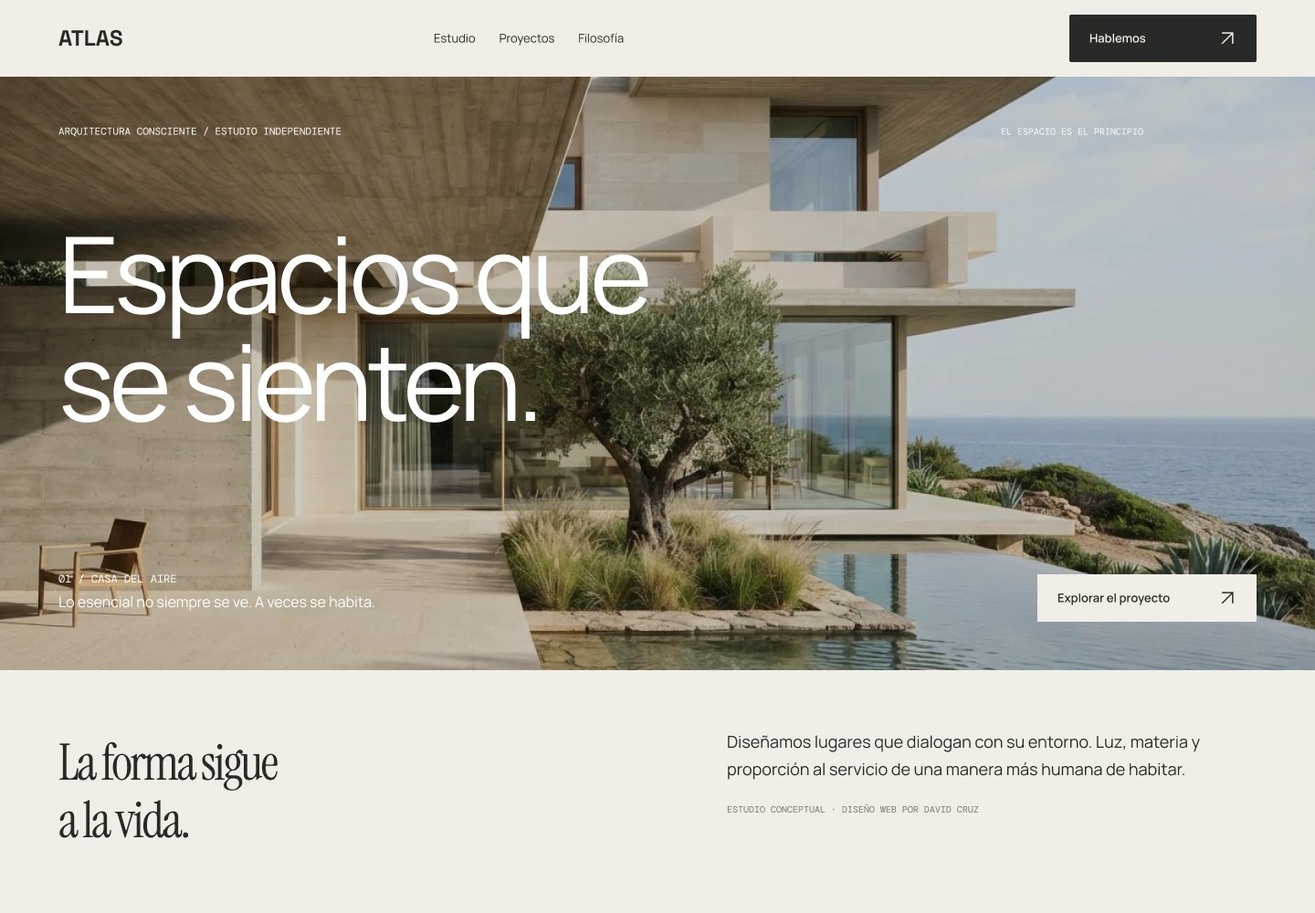
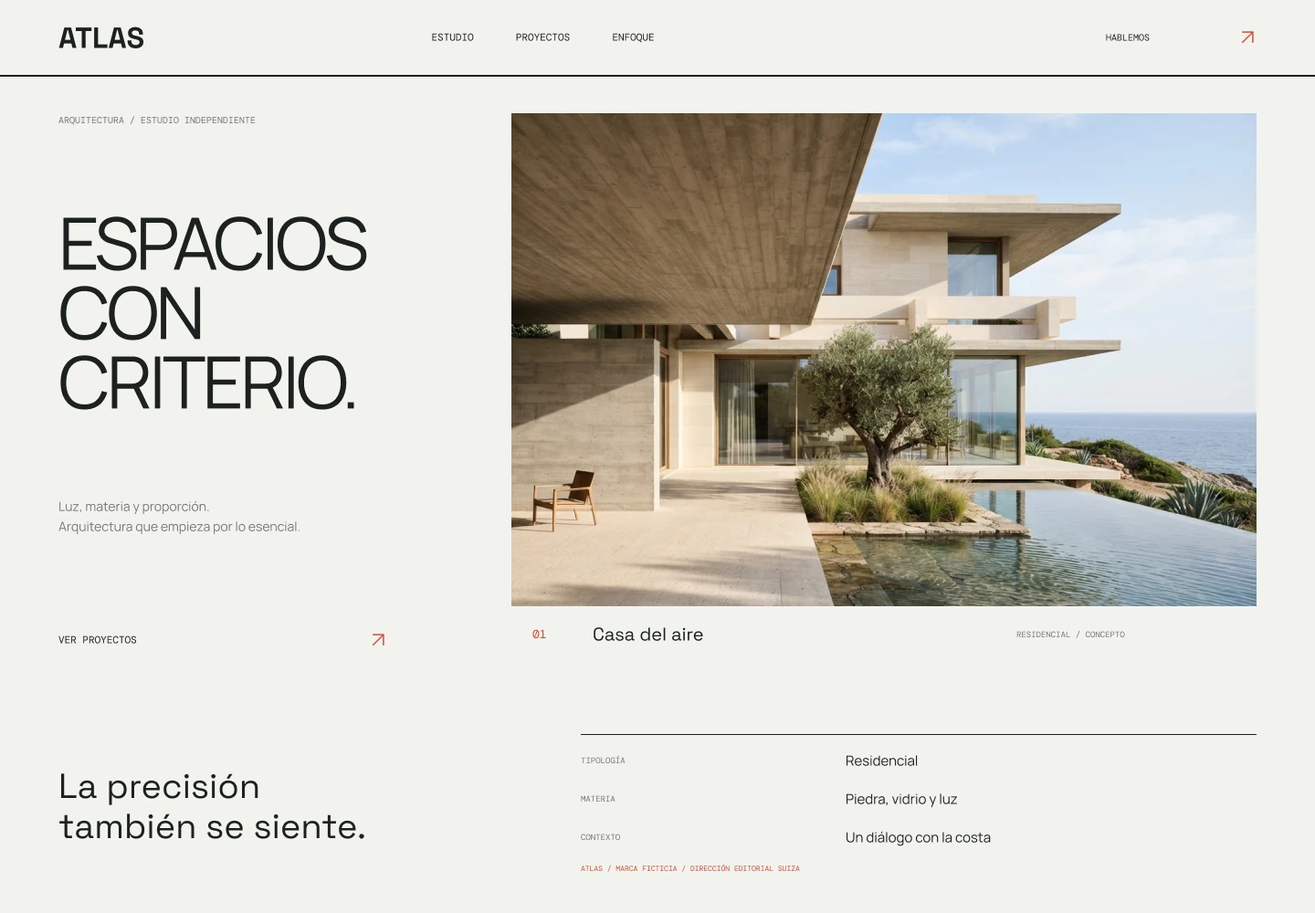
feat: update project details and styles in conceptProjects.js and DesignerPortfolio.jsx

diff --git a/artifacts/figma/restyle-concepts.js b/artifacts/figma/restyle-concepts.js
@@ -1,0 +1,218 @@
+// Run after the shared helpers from compose-concepts.js, with STYLE_INDEX = 0..3.
+await Promise.all([
+  ["Cormorant Garamond", "Regular"], ["Cormorant Garamond", "Italic"],
+  ["Inter", "Regular"], ["Inter", "Medium"], ["Inter", "Semi Bold"], ["Inter", "Bold"],
+].map(([family, style]) => figma.loadFontAsync({ family, style })));
+
+const brands = ["ATLAS", "BRUMA", "SENDA", "ORBIT"];
+const directions = ["Editorial suizo", "Neobrutalismo cálido", "Lujo orgánico", "Producto corporativo"];
+const brand = brands[STYLE_INDEX];
+const draftName = brand + " / " + directions[STYLE_INDEX];
+if (page.children.some(node => node.name === draftName + " / Desktop")) throw new Error("A draft already exists; inspect before retrying.");
+const previousDesktop = await figma.getNodeByIdAsync("1:2");
+const previousMobile = await figma.getNodeByIdAsync("1:3");
+const startX = Math.max(...page.children.map(node => node.x + node.width)) + 240;
+const desktop = box(page, draftName + " / Desktop", 1440, 1000);
+desktop.x = startX; desktop.y = 200; desktop.clipsContent = true;
+const mobile = box(page, draftName + " / Mobile", 390, 844);
+mobile.x = startX + 1480; mobile.y = 200; mobile.clipsContent = true;
+
+function outline(node, color, weight = 1) { node.strokes = fill(color); node.strokeWeight = weight; return node; }
+function centerText(parent, value, size, width, color, family, style = "Regular", line = 1.1) {
+  const node = text(parent, value, size, width, color, family, style, line);
+  node.textAlignHorizontal = "CENTER";
+  return node;
+}
+function blockShadow(node, offset, color) {
+  node.effects = [{ type: "DROP_SHADOW", color: { ...rgb(color), a: 1 }, offset: { x: offset, y: offset }, radius: 0, spread: 0, visible: true, blendMode: "NORMAL" }];
+}
+function smallAction(parent, value, width, height, background, ink, radius = 0, family = "Manrope") {
+  const node = row(parent, "Action / " + value, width, height, [0, 18], background);
+  node.cornerRadius = radius;
+  text(node, value, 12, width - 68, ink, family, family === "Inter" ? "Semi Bold" : "SemiBold");
+  icon(node, ink);
+  return node;
+}
+function stamp(parent, width, height, background, ink, first, second) {
+  const node = box(parent, "Brand stamp", width, height, background, "VERTICAL", 7, 12);
+  node.cornerRadius = 999; node.primaryAxisAlignItems = "CENTER"; node.counterAxisAlignItems = "CENTER";
+  centerText(node, first, 10, width - 24, ink, "DM Mono");
+  centerText(node, second, 17, width - 24, ink, "Space Grotesk", "Bold");
+  return node;
+}
+
+function atlasSwiss() {
+  const paper = "#F2F3EF", ink = "#1C211F", muted = "#727973", accent = "#CE4D37";
+  const hash = "13064f5ed14501a8743353296a9f58b9b9229a38";
+  desktop.fills = mobile.fills = fill(paper);
+  const nav = row(desktop, "Swiss navigation", 1440, 82, [0, 64], paper);
+  text(nav, "ATLAS", 32, 230, ink, "Space Grotesk", "Bold");
+  mono(nav, "ESTUDIO       PROYECTOS       ENFOQUE", 560, ink, 11);
+  const navLink = row(nav, "Contact link", 165, 40); mono(navLink, "HABLEMOS", 120, ink, 10); icon(navLink, accent);
+  box(desktop, "Structural rule", 1440, 2, ink);
+  const hero = row(desktop, "Asymmetric editorial grid", 1440, 682, [40, 64], paper);
+  const copy = box(hero, "Swiss typography column", 430, 602, null, "VERTICAL"); copy.primaryAxisAlignItems = "SPACE_BETWEEN";
+  mono(copy, "ARQUITECTURA / ESTUDIO INDEPENDIENTE", 430, muted, 10);
+  text(copy, "ESPACIOS\nCON\nCRITERIO.", 79, 430, ink, "Manrope", "Regular", .96);
+  text(copy, "Luz, materia y proporción.\nArquitectura que empieza por lo esencial.", 14, 390, muted, "Manrope", "Regular", 1.6);
+  const link = row(copy, "Studio project link", 360, 50); mono(link, "VER PROYECTOS", 290, ink, 11); icon(link, accent);
+  const image = photo(hero, "Architectural project / Precise image grid", 816, 602, hash);
+  const caption = row(image, "Architecture metadata", 816, 62, [0, 23], paper); absolute(caption, 0, 540);
+  mono(caption, "01", 42, accent, 13); text(caption, "Casa del aire", 20, 440, ink, "Space Grotesk"); mono(caption, "RESIDENCIAL / CONCEPTO", 240, muted, 9);
+  const end = row(desktop, "Swiss project information grid", 1440, 234, [36, 64]);
+  text(end, "La precisión\ntambién se siente.", 38, 470, ink, "Space Grotesk", "Regular", 1.15);
+  const info = box(end, "Material and context", 740, 158, null, "VERTICAL", 14);
+  rule(info, 740, ink);
+  [["TIPOLOGÍA", "Residencial"], ["MATERIA", "Piedra, vidrio y luz"], ["CONTEXTO", "Un diálogo con la costa"]].forEach(([label, value]) => { const line = row(info, label, 740, 28); mono(line, label, 230, muted, 9); text(line, value, 15, 450, ink); });
+  mono(info, "ATLAS / MARCA FICTICIA / DIRECCIÓN EDITORIAL SUIZA", 740, accent, 8);
+
+  const mn = row(mobile, "Swiss mobile navigation", 390, 68, [0, 24]); text(mn, "ATLAS", 28, 220, ink, "Space Grotesk", "Bold"); mono(mn, "MENÚ +", 70, ink, 9);
+  box(mobile, "Mobile structural rule", 390, 2, ink);
+  const mc = box(mobile, "Swiss mobile typography", 390, 266, paper, "VERTICAL", 17, 24);
+  mono(mc, "ARQUITECTURA / ESTUDIO INDEPENDIENTE", 342, muted, 8);
+  text(mc, "ESPACIOS\nCON CRITERIO.", 53, 342, ink, "Manrope", "Regular", .98);
+  text(mc, "Luz, materia y proporción.\nLo esencial, en cada proyecto.", 12, 342, muted, "Manrope", "Regular", 1.6);
+  const mp = photo(mobile, "Swiss mobile architecture", 390, 330, hash);
+  const cap = row(mp, "Mobile project caption", 390, 52, [0, 24], paper); absolute(cap, 0, 278); mono(cap, "01 / CASA DEL AIRE", 300, ink, 10); icon(cap, accent);
+  const me = box(mobile, "Swiss mobile manifesto", 390, 178, paper, "VERTICAL", 12, 24);
+  text(me, "La precisión también\nse siente.", 26, 342, ink, "Space Grotesk", "Regular", 1.05);
+  const ml = row(me, "Mobile project link", 342, 38); mono(ml, "VER PROYECTOS", 280, ink, 10); icon(ml, accent);
+  mono(me, "CONCEPTO FICTICIO / EDITORIAL SUIZO", 342, muted, 7);
+}
+
+function brumaBold() {
+  const paper = "#FFF4D7", yellow = "#FFD256", ink = "#272219", red = "#B9392A", pink = "#F4A4B8";
+  const hash = "a8d25860315f8faab885d634129b77d2ac3e2631";
+  desktop.fills = mobile.fills = fill(paper);
+  const nav = row(desktop, "Bold coffee navigation", 1440, 84, [0, 64], paper);
+  text(nav, "bruma.", 44, 240, ink, "Space Grotesk", "Bold"); mono(nav, "NUESTRO CAFÉ      EL ORIGEN      EL CLUB", 580, ink, 11);
+  outline(smallAction(nav, "Tu bolsa (0)", 190, 48, paper, ink), ink, 2);
+  box(desktop, "Bold navigation rule", 1440, 2, ink);
+  const hero = row(desktop, "Neobrutalist commerce hero", 1440, 668, [40, 64], yellow);
+  const copy = box(hero, "Bold retail typography", 610, 588, null, "VERTICAL", 23, [4, 0]);
+  mono(copy, "BUEN CAFÉ. CERO COMPLICACIONES.", 600, red, 11);
+  text(copy, "CAFÉ\nSIN FILTRO.", 108, 610, ink, "Space Grotesk", "Bold", .97);
+  text(copy, "Del origen a tu taza, con todo el carácter.\nTu ritual de siempre. Con otra actitud.", 17, 570, ink, "Manrope", "Regular", 1.6);
+  const cta = smallAction(copy, "Encuentra tu café", 270, 58, red, paper); outline(cta, ink, 2); blockShadow(cta, 5, ink);
+  const tags = row(copy, "Coffee flavour tags", 560, 42);
+  ["ORIGEN CONSCIENTE", "TU RITUAL", "TOSTADO FRESCO"].forEach(label => { const tag = box(tags, label, 172, 33, paper, "VERTICAL", 0, [8, 10]); outline(tag, ink, 1.5); mono(tag, label, 150, ink, 8); });
+  const wrapper = box(hero, "Coffee image and brand sticker", 610, 588);
+  const image = photo(wrapper, "Coffee / Graphic product photograph", 590, 560, hash); image.cornerRadius = 8; outline(image, ink, 2); blockShadow(image, 8, ink);
+  const badge = stamp(wrapper, 118, 118, pink, ink, "100%", "BUENA VIBRA"); outline(badge, ink, 2); absolute(badge, 475, -8); badge.rotation = -9;
+  const strip = row(desktop, "Bold brand ticker", 1440, 70, [0, 64], ink);
+  text(strip, "DE LA TIERRA A TU TAZA.", 24, 440, yellow, "Space Grotesk", "Bold"); icon(strip, yellow, true); text(strip, "BUEN CAFÉ, SIN VUELTAS.", 24, 480, yellow, "Space Grotesk", "Bold"); icon(strip, yellow, true);
+  const end = row(desktop, "Coffee brand pillars", 1440, 176, [28, 64], paper);
+  [["01", "ORIGEN CONSCIENTE", "Detrás de cada taza hay una historia."], ["02", "FRESCO, SIEMPRE", "Un ritual simple, lleno de carácter."], ["03", "TU PRIMERA PAUSA", "Lo bueno también puede ser cotidiano."]].forEach(([index, label, desc]) => { const card = box(end, label, 402, 120, paper, "VERTICAL", 12, 17); outline(card, ink, 2); const head = row(card, label + " heading", 368, 22); mono(head, index, 40, red, 10); text(head, label, 16, 300, ink, "Space Grotesk", "Bold"); text(card, desc, 12, 365, ink, "Manrope", "Regular", 1.5); });
+
+  const mn = row(mobile, "Bold mobile coffee navigation", 390, 68, [0, 24], paper); text(mn, "bruma.", 34, 240, ink, "Space Grotesk", "Bold"); mono(mn, "BOLSA (0)", 80, ink, 9);
+  box(mobile, "Mobile heavy rule", 390, 2, ink);
+  const mc = box(mobile, "Mobile bold coffee story", 390, 340, yellow, "VERTICAL", 18, 24);
+  mono(mc, "BUEN CAFÉ. CERO COMPLICACIONES.", 342, red, 8);
+  text(mc, "CAFÉ\nSIN FILTRO.", 63, 342, ink, "Space Grotesk", "Bold", .97);
+  text(mc, "Tu ritual de siempre. Con otra actitud.", 13, 342, ink);
+  const ctaM = smallAction(mc, "Encuentra tu café", 270, 52, red, paper); outline(ctaM, ink, 2); blockShadow(ctaM, 4, ink);
+  const mp = photo(mobile, "Mobile bold coffee photo", 390, 300, hash); outline(mp, ink, 2);
+  const sticker = stamp(mp, 92, 92, pink, ink, "100%", "ACTITUD"); sticker.children[1].fontSize = 13; outline(sticker, ink, 2); absolute(sticker, 278, 18); sticker.rotation = -9;
+  const band = row(mobile, "Mobile brand ticker", 390, 54, [0, 24], ink); text(band, "DE LA TIERRA A TU TAZA.", 18, 300, yellow, "Space Grotesk", "Bold"); icon(band, yellow, true);
+  const me = box(mobile, "Mobile brand statement", 390, 80, paper, "VERTICAL", 0, [16, 24]); text(me, "Pequeños rituales.\nGrandes mañanas.", 21, 342, ink, "Space Grotesk", "Bold", 1.1);
+}
+
+function sendaLuxury() {
+  const paper = "#F5F3EC", ink = "#314B42", muted = "#7A8277", gold = "#9F8256";
+  const hash = "d337a9c8a81636d4545f1f324f6596a7a71d6a56";
+  desktop.fills = mobile.fills = fill(paper);
+  const nav = row(desktop, "Quiet luxury navigation", 1440, 92, [0, 64], paper);
+  mono(nav, "EL REFUGIO       EXPERIENCIAS", 450, muted, 9);
+  centerText(nav, "senda", 49, 260, ink, "Cormorant Garamond");
+  const reserve = outline(smallAction(nav, "Reservar", 180, 44, paper, gold, 25), gold); reserve.name = "Discreet reservation action";
+  const intro = box(desktop, "Luxury centered editorial opening", 1440, 334, paper, "VERTICAL", 12, [18, 64]); intro.counterAxisAlignItems = "CENTER"; intro.primaryAxisAlignItems = "CENTER";
+  centerText(intro, "UN REFUGIO, A OTRO RITMO", 10, 1000, gold, "DM Mono");
+  centerText(intro, "El lujo de", 100, 1200, ink, "Cormorant Garamond", "Regular", .94);
+  centerText(intro, "bajar el ritmo.", 104, 1200, ink, "Cormorant Garamond", "Italic", .94);
+  centerText(intro, "Naturaleza, silencio y tiempo para volver a lo esencial.", 14, 1100, muted, "Manrope", "Regular", 1.5);
+  const stage = box(desktop, "Organic landscape stage", 1440, 414, paper, "VERTICAL", 0, [0, 64]);
+  const image = photo(stage, "Arched landscape photograph", 1312, 390, hash); image.topLeftRadius = image.topRightRadius = 328; image.bottomLeftRadius = image.bottomRightRadius = 4;
+  const caption = box(image, "Quiet landscape caption", 290, 52, paper, "VERTICAL", 0, [17, 24]); caption.cornerRadius = 28; absolute(caption, 48, 304); mono(caption, "NATURALEZA, SIN PRISA.", 245, ink, 9);
+  const end = row(desktop, "Luxury experience details", 1440, 160, [28, 64], paper);
+  [["La estancia", "Bosque, agua y silencio."], ["El tiempo", "El que necesites."], ["La experiencia", "Volver a lo esencial."]].forEach(([title, desc]) => { const block = box(end, title, 390, 100, null, "VERTICAL", 15); rule(block, 390, "#D5CCB8"); text(block, title, 33, 390, ink, "Cormorant Garamond"); text(block, desc, 12, 390, muted); });
+
+  const mn = row(mobile, "Quiet luxury mobile navigation", 390, 72, [0, 24], paper); text(mn, "senda", 40, 240, ink, "Cormorant Garamond"); mono(mn, "MENÚ +", 75, gold, 9);
+  const mc = box(mobile, "Luxury mobile typography", 390, 304, paper, "VERTICAL", 16, 24); mc.counterAxisAlignItems = "CENTER"; mc.primaryAxisAlignItems = "CENTER";
+  centerText(mc, "UN REFUGIO, A OTRO RITMO", 8, 342, gold, "DM Mono");
+  centerText(mc, "El lujo de", 67, 342, ink, "Cormorant Garamond", "Regular", .96);
+  centerText(mc, "bajar el ritmo.", 61, 342, ink, "Cormorant Garamond", "Italic", .96);
+  centerText(mc, "Tiempo para volver a lo esencial.", 12, 342, muted, "Manrope");
+  const ms = box(mobile, "Mobile organic landscape", 390, 300, paper, "VERTICAL", 0, [0, 24]);
+  const mp = photo(ms, "Mobile arched landscape", 342, 276, hash); mp.topLeftRadius = mp.topRightRadius = 171; mp.bottomLeftRadius = mp.bottomRightRadius = 3;
+  const me = box(mobile, "Mobile quiet luxury close", 390, 168, paper, "VERTICAL", 14, 24);
+  text(me, "Bosque, agua y silencio.", 30, 342, ink, "Cormorant Garamond");
+  text(me, "Un lugar para bajar el ruido\ny escuchar lo que importa.", 12, 342, muted, "Manrope", "Regular", 1.6);
+  mono(me, "CONCEPTO FICTICIO / LUJO ORGÁNICO", 342, gold, 7);
+}
+
+function orbitApp(parent, width, height, small = false) {
+  const ink = "#17304E", blue = "#2C60D9", muted = "#7B8BA1", border = "#DEE6F2";
+  const app = outline(box(parent, "Corporate product / Editable interface", width, height, "#FFFFFF", "HORIZONTAL"), border); app.cornerRadius = 12; app.clipsContent = true;
+  const sidebarWidth = small ? 0 : 208;
+  if (!small) {
+    const side = box(app, "Enterprise workspace navigation", 208, height, "#F2F6FC", "VERTICAL", 22, [25, 20]);
+    text(side, "Equipo Norte", 16, 168, ink, "Inter", "Semi Bold"); mono(side, "WORKSPACE DEMO", 168, muted, 8);
+    ["Resumen", "Proyectos", "Tareas", "Agenda", "Mi equipo"].forEach((label, i) => { const item = row(side, "Workspace / " + label, 168, 34, [0, 10], i === 0 ? "#E2EBFF" : "#F2F6FC"); item.cornerRadius = 5; circle(item, 5, i === 0 ? blue : "#AFBED1"); text(item, label, 11, 138, i === 0 ? blue : muted, "Inter", i === 0 ? "Semi Bold" : "Regular"); });
+  }
+  const pad = small ? 16 : 24, inner = width - sidebarWidth - 2 * pad;
+  const content = box(app, "Team overview", width - sidebarWidth, height, "#FFFFFF", "VERTICAL", small ? 13 : 18, pad);
+  const header = row(content, "Overview header", inner, small ? 36 : 42);
+  const heading = box(header, "Overview title", inner - (small ? 28 : 200), small ? 36 : 42, null, "VERTICAL", 6);
+  text(heading, "Resumen del equipo", small ? 15 : 21, heading.width, ink, "Inter", "Semi Bold");
+  text(heading, "Tu trabajo, con una visión clara.", small ? 8 : 10, heading.width, muted, "Inter");
+  if (!small) { const control = outline(row(header, "Weekly date control", 160, 34, [0, 14], "#FFFFFF"), border); control.cornerRadius = 6; text(control, "Esta semana", 11, 130, muted, "Inter"); } else circle(header, 24, "#DFE9FC");
+  const statCount = small ? 3 : 4;
+  const metrics = row(content, "Team metrics", inner, small ? 62 : 84);
+  [["Proyectos", "12", blue], ["En curso", "08", "#C38C35"], ["Completados", "24", "#328B74"], ["Prioridades", "06", "#7A66B4"]].slice(0, statCount).forEach(([label, value, color]) => { const card = outline(box(metrics, label, (inner - (statCount - 1) * 12) / statCount, small ? 62 : 84, "#FFFFFF", "VERTICAL", 9, small ? 9 : 14), border); card.cornerRadius = 7; text(card, label, small ? 7 : 10, card.width - 20, muted, "Inter"); const values = row(card, label + " value", card.width - (small ? 18 : 28), small ? 22 : 30); text(values, value, small ? 19 : 27, values.width - 15, ink, "Inter", "Semi Bold"); circle(values, 5, color); });
+  const chartWidth = small ? inner : Math.round(inner * .6) - 10;
+  const lower = small ? content : row(content, "Activity and priorities", inner, 208);
+  const chart = outline(box(lower, "Weekly activity module", chartWidth, small ? 132 : 208, "#FFFFFF", "VERTICAL", small ? 10 : 16, 14), border); chart.cornerRadius = 8;
+  text(chart, "Actividad semanal", small ? 10 : 13, chartWidth - 28, ink, "Inter", "Semi Bold");
+  const bars = row(chart, "Weekly activity chart", chartWidth - 28, small ? 60 : 109); bars.counterAxisAlignItems = "MAX";
+  [42, 64, 51, 90, 72, 57, 35].forEach((value, index) => { const col = box(bars, "Activity column " + index, (chartWidth - 65) / 7, small ? value * .65 : value, index === 3 ? blue : "#B5CDF8"); col.cornerRadius = 3; });
+  const days = row(chart, "Chart weekday labels", chartWidth - 28, 12); ["L", "M", "M", "J", "V", "S", "D"].forEach(day => centerText(days, day, small ? 6 : 8, (chartWidth - 65) / 7, muted, "Inter"));
+  const tasksWidth = small ? inner : inner - chartWidth - 20;
+  const list = small ? box(content, "Next priority", inner, 72, null, "VERTICAL", 10) : outline(box(lower, "Team priorities", tasksWidth, 208, "#FFFFFF", "VERTICAL", 18, 16), border);
+  list.cornerRadius = 8;
+  text(list, "Próximas entregas", small ? 10 : 13, tasksWidth - (small ? 0 : 32), ink, "Inter", "Semi Bold");
+  [["Identidad visual / Norte", "En curso"], ["Web / Colección Otoño", "Revisión"], ["Planificación creativa", "Pendiente"]].slice(0, small ? 2 : 3).forEach(([label, status], index) => { const item = row(list, label, tasksWidth - (small ? 0 : 32), small ? 17 : 31); circle(item, 5, [blue, "#328B74", "#C38C35"][index]); text(item, label, small ? 8 : 10, small ? tasksWidth - 17 : tasksWidth - 135, muted, "Inter"); if (!small) { const pill = box(item, status, 74, 23, ["#E8F0FF", "#E6F2ED", "#FAF0DF"][index], "VERTICAL", 0, [6, 6]); pill.cornerRadius = 5; centerText(pill, status, 8, 62, [blue, "#328B74", "#A97D35"][index], "Inter"); } });
+  return app;
+}
+
+function orbitCorporate() {
+  const paper = "#F8FBFF", white = "#FFFFFF", ink = "#17304E", blue = "#2C60D9", muted = "#718299";
+  desktop.fills = mobile.fills = fill(paper);
+  const nav = row(desktop, "Corporate product navigation", 1440, 84, [0, 64], white); text(nav, "orbit", 31, 250, blue, "Inter", "Bold"); text(nav, "Producto          Soluciones          Recursos          Planes", 13, 650, ink, "Inter"); smallAction(nav, "Empieza gratis", 190, 44, blue, white, 7, "Inter");
+  const hero = box(desktop, "Corporate centered value proposition", 1440, 292, paper, "VERTICAL", 14, [20, 64]); hero.counterAxisAlignItems = "CENTER"; hero.primaryAxisAlignItems = "CENTER";
+  const eyebrow = box(hero, "Product category badge", 290, 28, "#E7EEFC", "VERTICAL", 0, [7, 12]); eyebrow.cornerRadius = 18; centerText(eyebrow, "EL ESPACIO DE TU EQUIPO", 9, 266, blue, "Inter", "Medium");
+  centerText(hero, "Todo tu trabajo.", 65, 1200, ink, "Inter", "Bold", 1.02);
+  centerText(hero, "En la misma órbita.", 65, 1200, blue, "Inter", "Bold", 1.02);
+  centerText(hero, "Proyectos, conversaciones y prioridades. Una visión clara para avanzar juntos.", 15, 1200, muted, "Inter", "Regular", 1.5);
+  const appStage = box(desktop, "Enterprise product preview", 1440, 474, paper, "VERTICAL", 0, [0, 64]); orbitApp(appStage, 1312, 450);
+  const end = row(desktop, "Product capabilities", 1440, 150, [25, 64], paper);
+  [["01", "Una sola fuente de claridad", "Conecta proyectos, personas y prioridades."], ["02", "Diseñado para colaborar", "El contexto correcto, en el momento correcto."], ["03", "Visibilidad para avanzar", "Cada entrega, con un siguiente paso claro."]].forEach(([index, title, desc]) => { const block = box(end, title, 395, 100, null, "VERTICAL", 12); mono(block, index, 390, blue, 9); text(block, title, 17, 390, ink, "Inter", "Semi Bold"); text(block, desc, 12, 390, muted, "Inter", "Regular", 1.5); });
+
+  const mn = row(mobile, "Corporate mobile navigation", 390, 68, [0, 24], white); text(mn, "orbit", 29, 180, blue, "Inter", "Bold"); smallAction(mn, "Entrar", 130, 38, blue, white, 7, "Inter");
+  const mc = box(mobile, "Mobile corporate product story", 390, 238, paper, "VERTICAL", 15, 24); mc.counterAxisAlignItems = "CENTER";
+  centerText(mc, "EL ESPACIO DE TU EQUIPO", 8, 342, blue, "Inter", "Medium");
+  centerText(mc, "Tu equipo.\nEn órbita.", 44, 342, ink, "Inter", "Bold", 1.04);
+  centerText(mc, "Todo tu trabajo conectado.\nUna visión clara para avanzar.", 12, 342, muted, "Inter", "Regular", 1.5);
+  const app = box(mobile, "Mobile corporate product preview", 390, 426, paper, "VERTICAL", 0, [0, 24]); orbitApp(app, 342, 400, true);
+  const me = box(mobile, "Mobile product capabilities", 390, 112, paper, "VERTICAL", 12, 24); text(me, "Un equipo. Una visión clara.", 18, 342, ink, "Inter", "Semi Bold"); mono(me, "CONCEPTO FICTICIO / PRODUCTO DIGITAL", 342, blue, 7);
+}
+
+[atlasSwiss, brumaBold, sendaLuxury, orbitCorporate][STYLE_INDEX]();
+return {
+  brand,
+  direction: directions[STYLE_INDEX],
+  createdNodeIds: ids,
+  desktopId: desktop.id,
+  mobileId: mobile.id,
+  previousRootIds: [previousDesktop.id, previousMobile.id],
+  screenSizes: [[desktop.width, desktop.height], [mobile.width, mobile.height]],
+};

diff --git a/src/assets/data/conceptProjects.js b/src/assets/data/conceptProjects.js
@@ -8,53 +8,58 @@ const concepts = [
     id: 7,
     image: atlas,
     figmaFile: "https://www.figma.com/design/MUvm7cs6NlRypLTtZaYTI3",
-    node: "1-2",
+    node: "6-2",
     title: { es: "ATLAS — Arquitectura contemporánea", en: "ATLAS — Contemporary architecture" },
+    style: { es: "Editorial suizo", en: "Swiss editorial" },
     description: {
-      es: "Concepto editorial para un estudio de arquitectura. Fotografía inmersiva, tipografía monumental y una composición centrada en los espacios.",
-      en: "An editorial concept for an architecture studio. Immersive photography, monumental typography and a composition built around spaces.",
+      es: "Estudio de arquitectura ficticio. Retícula asimétrica, tipografía sans serif y fotografía sin superposiciones para dar protagonismo a los espacios.",
+      en: "A fictional architecture studio. An asymmetric grid, sans serif typography and unobstructed photography keep the focus on the spaces.",
     },
   },
   {
     id: 8,
     image: bruma,
     figmaFile: "https://www.figma.com/design/SH4e4GFIGbvme1KdAVaSkp",
-    node: "1-2",
+    node: "5-2",
     title: { es: "BRUMA — Café de especialidad", en: "BRUMA — Specialty coffee" },
+    style: { es: "Neobrutalismo cálido", en: "Warm neobrutalism" },
     description: {
-      es: "Marca ficticia de café de especialidad. Una experiencia de compra cálida con fotografía de producto y una identidad inspirada en el origen.",
-      en: "A fictional specialty coffee brand. A warm shopping experience with product photography and an identity inspired by its origins.",
+      es: "Tienda ficticia de café con una identidad enérgica. Titulares contundentes, bordes marcados y colores cálidos que llevan la atención al producto y a la compra.",
+      en: "A fictional coffee shop with an energetic identity. Bold headlines, strong borders and warm colours draw attention to the product and shopping actions.",
     },
   },
   {
     id: 9,
     image: senda,
     figmaFile: "https://www.figma.com/design/df5suB2jaRWf9FTWrDGKxF",
-    node: "1-2",
+    node: "6-2",
     title: { es: "SENDA — Refugio de bienestar", en: "SENDA — Wellness retreat" },
+    style: { es: "Lujo orgánico", en: "Organic luxury" },
     description: {
-      es: "Concepto de hospitalidad y bienestar. Naturaleza, una paleta serena y una interfaz de exploración que invita a descubrir el refugio.",
-      en: "A hospitality and wellness concept. Nature, a serene palette and an exploration interface that invites visitors to discover the retreat.",
+      es: "Refugio de bienestar ficticio. Tipografía serif, encuadres orgánicos y espacio en blanco para transmitir calma y acompañar el descubrimiento de la estancia.",
+      en: "A fictional wellness retreat. Serif typography, organic framing and whitespace convey calm and guide visitors through discovering the stay.",
     },
   },
   {
     id: 10,
     image: orbit,
     figmaFile: "https://www.figma.com/design/uk5X4y3QUSlwn48d7tovgZ",
-    node: "1-2",
+    node: "6-2",
     title: { es: "ORBIT — Plataforma para equipos creativos", en: "ORBIT — Creative team platform" },
+    style: { es: "Producto corporativo", en: "Corporate product" },
     description: {
-      es: "Concepto de producto SaaS con landing e interfaz de gestión. Contraste oscuro, acentos lavanda y un dashboard diseñado para dar claridad al trabajo.",
-      en: "A SaaS product concept with a landing page and management interface. Dark contrast, lavender accents and a dashboard designed for clarity.",
+      es: "Producto SaaS ficticio con landing e interfaz de gestión. Azul corporativo, módulos de información y una jerarquía funcional que facilita leer prioridades y actividad.",
+      en: "A fictional SaaS product with a landing page and management interface. Corporate blue, information modules and a functional hierarchy make priorities and activity easier to scan.",
     },
   },
 ];
 
 export const getConceptProjects = ({ language, category, techs }) =>
-  concepts.map(({ title, description, figmaFile, node, ...project }) => ({
+  concepts.map(({ title, description, style, figmaFile, node, ...project }) => ({
     ...project,
     title: title[language],
     description: description[language],
+    styleLabel: style[language],
     category,
     category_color: "var(--accent-strong)",
     kind: "web",

diff --git a/src/views/portfolio/DesignerPortfolio.jsx b/src/views/portfolio/DesignerPortfolio.jsx
@@ -187,7 +187,7 @@ function DesignerPortfolio({ lang, language, onChangeLanguage }) {
                 </a>
                 <div className="work-info"><div><span className="project-kind">{project.category}{project.isConcept && <span className="project-concept">{copy.concept}</span>}</span><h3><a href={url} target="_blank" rel="noopener noreferrer">{project.title}</a></h3></div><Arrow diagonal /></div>
                 <p className="work-description">{project.description}</p>
-                <div className="work-foot"><span>{project.techs.map((tech) => tech.name).join(" / ")}</span><a href={url} target="_blank" rel="noopener noreferrer">{linkLabel}<Arrow diagonal /></a></div>
+                <div className="work-foot"><span>{project.styleLabel || project.techs.map((tech) => tech.name).join(" / ")}</span><a href={url} target="_blank" rel="noopener noreferrer">{linkLabel}<Arrow diagonal /></a></div>
               </article>;
             })}
           </div>

diff --git a/src/styles/index.css b/src/styles/index.css
@@ -145,9 +145,9 @@ h2 em { font-size: 1.12em; letter-spacing: -.025em; }
 .work-media--5 { background: #e4e7ef; }
 .work-media--6 { background: #eee7dd; }
 .work-media--7 { background: #e8e6de; }
-.work-media--8 { background: #ede1d6; }
+.work-media--8 { background: #f2e6c8; }
 .work-media--9 { background: #e0e9e3; }
-.work-media--10 { background: #e6e2f1; }
+.work-media--10 { background: #e1eaf5; }
 .work-media .browser-frame { display: flex; flex-direction: column; width: 100%; height: 100%; transition: box-shadow 300ms ease; }
 .work-media .browser-bar { flex: 0 0 24px; }
 .work-media .browser-screen { flex: 1; min-height: 0; aspect-ratio: auto; }
